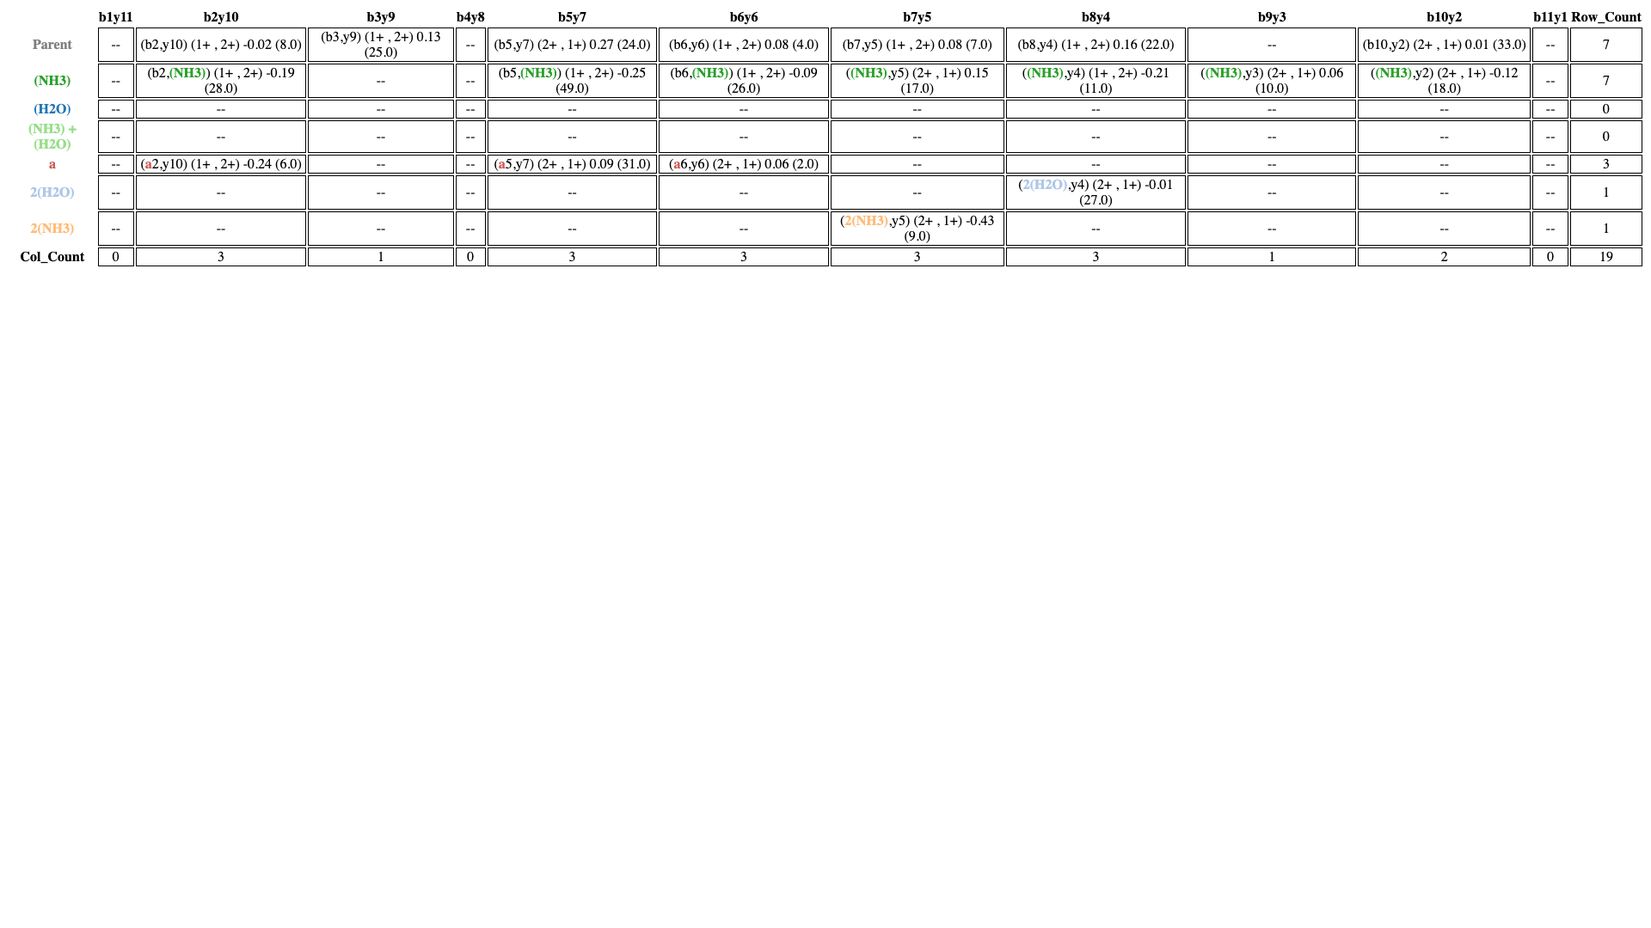
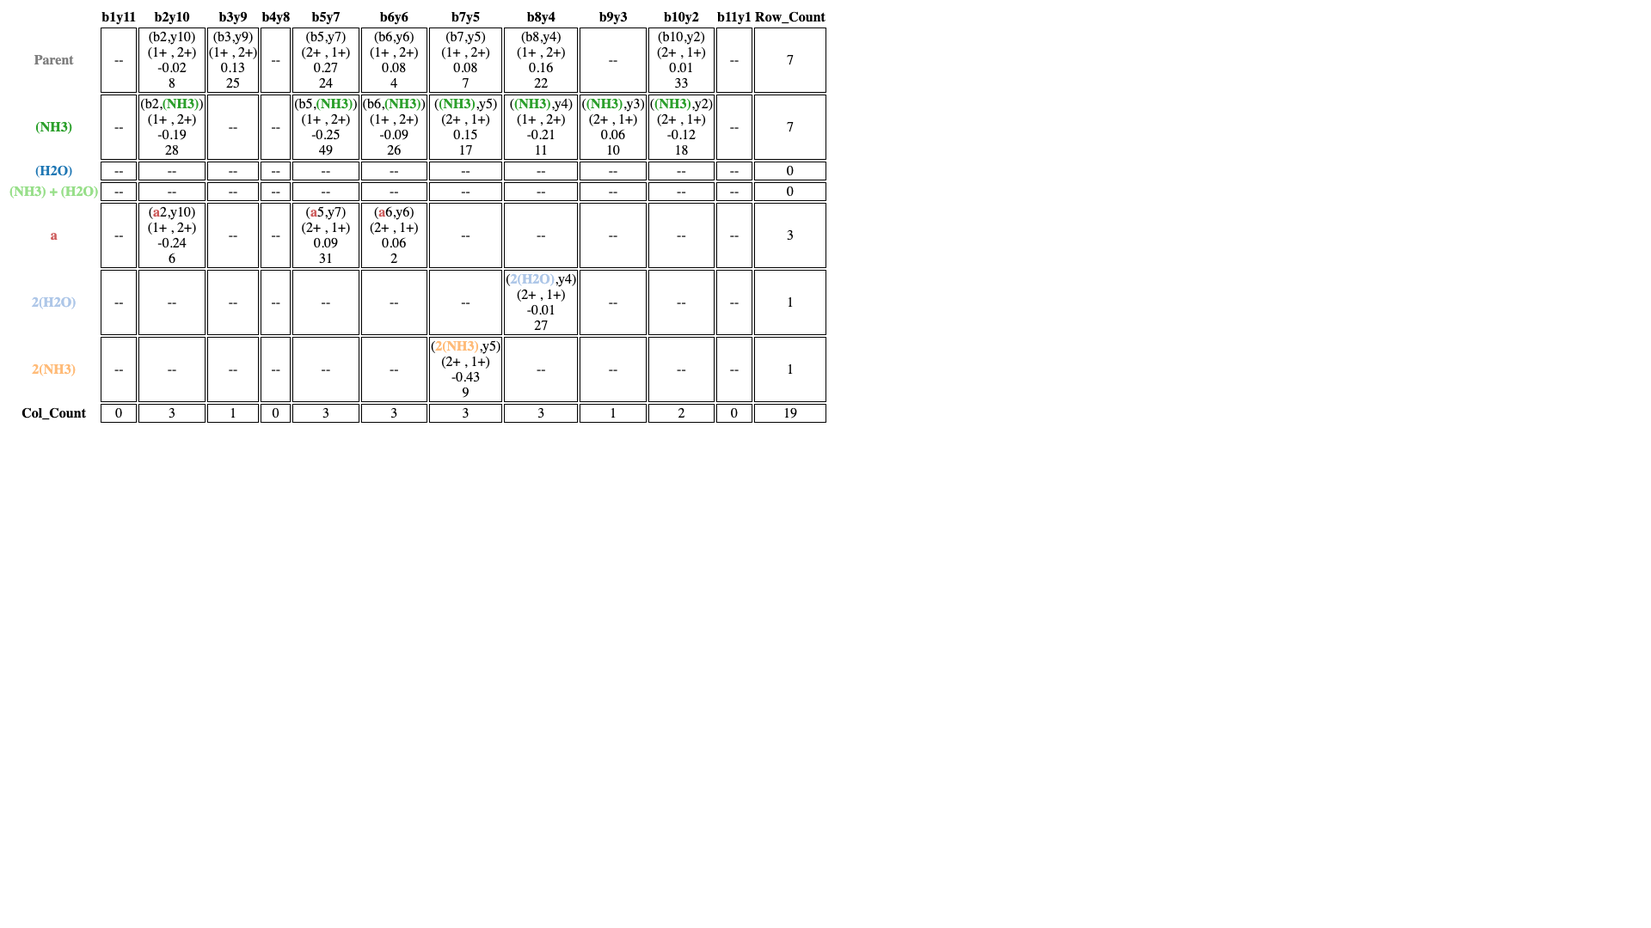
/

diff --git a/vis/temp/ME9_3+.html b/vis/temp/ME9_3+.html
@@ -1,217 +1,179 @@
 <style type="text/css">
-#T_36f19_row0_col0, #T_36f19_row0_col1, #T_36f19_row0_col2, #T_36f19_row0_col3, #T_36f19_row0_col4, #T_36f19_row0_col5, #T_36f19_row0_col6, #T_36f19_row0_col7, #T_36f19_row0_col8, #T_36f19_row0_col9, #T_36f19_row0_col10, #T_36f19_row0_col11, #T_36f19_row1_col0, #T_36f19_row1_col1, #T_36f19_row1_col2, #T_36f19_row1_col3, #T_36f19_row1_col4, #T_36f19_row1_col5, #T_36f19_row1_col6, #T_36f19_row1_col7, #T_36f19_row1_col8, #T_36f19_row1_col9, #T_36f19_row1_col10, #T_36f19_row1_col11, #T_36f19_row2_col0, #T_36f19_row2_col1, #T_36f19_row2_col2, #T_36f19_row2_col3, #T_36f19_row2_col4, #T_36f19_row2_col5, #T_36f19_row2_col6, #T_36f19_row2_col7, #T_36f19_row2_col8, #T_36f19_row2_col9, #T_36f19_row2_col10, #T_36f19_row2_col11, #T_36f19_row3_col0, #T_36f19_row3_col1, #T_36f19_row3_col2, #T_36f19_row3_col3, #T_36f19_row3_col4, #T_36f19_row3_col5, #T_36f19_row3_col6, #T_36f19_row3_col7, #T_36f19_row3_col8, #T_36f19_row3_col9, #T_36f19_row3_col10, #T_36f19_row3_col11, #T_36f19_row4_col0, #T_36f19_row4_col1, #T_36f19_row4_col2, #T_36f19_row4_col3, #T_36f19_row4_col4, #T_36f19_row4_col5, #T_36f19_row4_col6, #T_36f19_row4_col7, #T_36f19_row4_col8, #T_36f19_row4_col9, #T_36f19_row4_col10, #T_36f19_row4_col11, #T_36f19_row5_col0, #T_36f19_row5_col1, #T_36f19_row5_col2, #T_36f19_row5_col3, #T_36f19_row5_col4, #T_36f19_row5_col5, #T_36f19_row5_col6, #T_36f19_row5_col7, #T_36f19_row5_col8, #T_36f19_row5_col9, #T_36f19_row5_col10, #T_36f19_row5_col11, #T_36f19_row6_col0, #T_36f19_row6_col1, #T_36f19_row6_col2, #T_36f19_row6_col3, #T_36f19_row6_col4, #T_36f19_row6_col5, #T_36f19_row6_col6, #T_36f19_row6_col7, #T_36f19_row6_col8, #T_36f19_row6_col9, #T_36f19_row6_col10, #T_36f19_row6_col11, #T_36f19_row7_col0, #T_36f19_row7_col1, #T_36f19_row7_col2, #T_36f19_row7_col3, #T_36f19_row7_col4, #T_36f19_row7_col5, #T_36f19_row7_col6, #T_36f19_row7_col7, #T_36f19_row7_col8, #T_36f19_row7_col9, #T_36f19_row7_col10, #T_36f19_row7_col11 {
+#T_e6fdb_row0_col0, #T_e6fdb_row0_col1, #T_e6fdb_row0_col2, #T_e6fdb_row0_col3, #T_e6fdb_row0_col4, #T_e6fdb_row0_col5, #T_e6fdb_row0_col6, #T_e6fdb_row0_col7, #T_e6fdb_row0_col8, #T_e6fdb_row0_col9, #T_e6fdb_row0_col10, #T_e6fdb_row0_col11, #T_e6fdb_row1_col0, #T_e6fdb_row1_col1, #T_e6fdb_row1_col2, #T_e6fdb_row1_col3, #T_e6fdb_row1_col4, #T_e6fdb_row1_col5, #T_e6fdb_row1_col6, #T_e6fdb_row1_col7, #T_e6fdb_row1_col8, #T_e6fdb_row1_col9, #T_e6fdb_row1_col10, #T_e6fdb_row1_col11, #T_e6fdb_row2_col0, #T_e6fdb_row2_col1, #T_e6fdb_row2_col2, #T_e6fdb_row2_col3, #T_e6fdb_row2_col4, #T_e6fdb_row2_col5, #T_e6fdb_row2_col6, #T_e6fdb_row2_col7, #T_e6fdb_row2_col8, #T_e6fdb_row2_col9, #T_e6fdb_row2_col10, #T_e6fdb_row2_col11, #T_e6fdb_row3_col0, #T_e6fdb_row3_col1, #T_e6fdb_row3_col2, #T_e6fdb_row3_col3, #T_e6fdb_row3_col4, #T_e6fdb_row3_col5, #T_e6fdb_row3_col6, #T_e6fdb_row3_col7, #T_e6fdb_row3_col8, #T_e6fdb_row3_col9, #T_e6fdb_row3_col10, #T_e6fdb_row3_col11, #T_e6fdb_row4_col0, #T_e6fdb_row4_col1, #T_e6fdb_row4_col2, #T_e6fdb_row4_col3, #T_e6fdb_row4_col4, #T_e6fdb_row4_col5, #T_e6fdb_row4_col6, #T_e6fdb_row4_col7, #T_e6fdb_row4_col8, #T_e6fdb_row4_col9, #T_e6fdb_row4_col10, #T_e6fdb_row4_col11, #T_e6fdb_row5_col0, #T_e6fdb_row5_col1, #T_e6fdb_row5_col2, #T_e6fdb_row5_col3, #T_e6fdb_row5_col4, #T_e6fdb_row5_col5, #T_e6fdb_row5_col6, #T_e6fdb_row5_col7, #T_e6fdb_row5_col8, #T_e6fdb_row5_col9, #T_e6fdb_row5_col10, #T_e6fdb_row5_col11, #T_e6fdb_row6_col0, #T_e6fdb_row6_col1, #T_e6fdb_row6_col2, #T_e6fdb_row6_col3, #T_e6fdb_row6_col4, #T_e6fdb_row6_col5, #T_e6fdb_row6_col6, #T_e6fdb_row6_col7, #T_e6fdb_row6_col8, #T_e6fdb_row6_col9, #T_e6fdb_row6_col10, #T_e6fdb_row6_col11, #T_e6fdb_row7_col0, #T_e6fdb_row7_col1, #T_e6fdb_row7_col2, #T_e6fdb_row7_col3, #T_e6fdb_row7_col4, #T_e6fdb_row7_col5, #T_e6fdb_row7_col6, #T_e6fdb_row7_col7, #T_e6fdb_row7_col8, #T_e6fdb_row7_col9, #T_e6fdb_row7_col10, #T_e6fdb_row7_col11 {
   border: 1px solid black;
   text-align: center;
 }
-#T_36f19_level0_row0 {
+#T_e6fdb_level0_row0 {
   color: #7f7f7f;
   font-weight: bold;
 }
-#T_36f19_level0_row1 {
+#T_e6fdb_level0_row1 {
   color: #2ca02c;
   font-weight: bold;
 }
-#T_36f19_level0_row2 {
+#T_e6fdb_level0_row2 {
   color: #1f77b4;
   font-weight: bold;
 }
-#T_36f19_level0_row3 {
+#T_e6fdb_level0_row3 {
   color: #98df8a;
   font-weight: bold;
 }
-#T_36f19_level0_row4 {
+#T_e6fdb_level0_row4 {
   color: #CD5C5C;
   font-weight: bold;
 }
-#T_36f19_level0_row5 {
+#T_e6fdb_level0_row5 {
   color: #aec7e8;
   font-weight: bold;
 }
-#T_36f19_level0_row6 {
+#T_e6fdb_level0_row6 {
   color: #ffbb78;
   font-weight: bold;
 }
-#T_36f19_level0_row7 {
+#T_e6fdb_level0_row7 {
   color: black;
   font-weight: bold;
 }
 </style>
-<table id="T_36f19">
+<table id="T_e6fdb">
   <thead>
     <tr>
       <th class="blank level0" >&nbsp;</th>
-      <th id="T_36f19_level0_col0" class="col_heading level0 col0" >b1y11</th>
-      <th id="T_36f19_level0_col1" class="col_heading level0 col1" >b2y10</th>
-      <th id="T_36f19_level0_col2" class="col_heading level0 col2" >b3y9</th>
-      <th id="T_36f19_level0_col3" class="col_heading level0 col3" >b4y8</th>
-      <th id="T_36f19_level0_col4" class="col_heading level0 col4" >b5y7</th>
-      <th id="T_36f19_level0_col5" class="col_heading level0 col5" >b6y6</th>
-      <th id="T_36f19_level0_col6" class="col_heading level0 col6" >b7y5</th>
-      <th id="T_36f19_level0_col7" class="col_heading level0 col7" >b8y4</th>
-      <th id="T_36f19_level0_col8" class="col_heading level0 col8" >b9y3</th>
-      <th id="T_36f19_level0_col9" class="col_heading level0 col9" >b10y2</th>
-      <th id="T_36f19_level0_col10" class="col_heading level0 col10" >b11y1</th>
-      <th id="T_36f19_level0_col11" class="col_heading level0 col11" >Row_Count</th>
+      <th id="T_e6fdb_level0_col0" class="col_heading level0 col0" >b1y11</th>
+      <th id="T_e6fdb_level0_col1" class="col_heading level0 col1" >b2y10</th>
+      <th id="T_e6fdb_level0_col2" class="col_heading level0 col2" >b3y9</th>
+      <th id="T_e6fdb_level0_col3" class="col_heading level0 col3" >b4y8</th>
+      <th id="T_e6fdb_level0_col4" class="col_heading level0 col4" >b5y7</th>
+      <th id="T_e6fdb_level0_col5" class="col_heading level0 col5" >b6y6</th>
+      <th id="T_e6fdb_level0_col6" class="col_heading level0 col6" >b7y5</th>
+      <th id="T_e6fdb_level0_col7" class="col_heading level0 col7" >b8y4</th>
+      <th id="T_e6fdb_level0_col8" class="col_heading level0 col8" >b9y3</th>
+      <th id="T_e6fdb_level0_col9" class="col_heading level0 col9" >b10y2</th>
+      <th id="T_e6fdb_level0_col10" class="col_heading level0 col10" >b11y1</th>
+      <th id="T_e6fdb_level0_col11" class="col_heading level0 col11" >Row_Count</th>
     </tr>
   </thead>
   <tbody>
     <tr>
-      <th id="T_36f19_level0_row0" class="row_heading level0 row0" >Parent</th>
-      <td id="T_36f19_row0_col0" class="data row0 col0" >--</td>
-      <td id="T_36f19_row0_col1" class="data row0 col1" >(b2,y10) 
- (1+ , 2+) 
- -0.02 (8.0)</td>
-      <td id="T_36f19_row0_col2" class="data row0 col2" >(b3,y9) 
- (1+ , 2+) 
- 0.13 (25.0)</td>
-      <td id="T_36f19_row0_col3" class="data row0 col3" >--</td>
-      <td id="T_36f19_row0_col4" class="data row0 col4" >(b5,y7) 
- (2+ , 1+) 
- 0.27 (24.0)</td>
-      <td id="T_36f19_row0_col5" class="data row0 col5" >(b6,y6) 
- (1+ , 2+) 
- 0.08 (4.0)</td>
-      <td id="T_36f19_row0_col6" class="data row0 col6" >(b7,y5) 
- (1+ , 2+) 
- 0.08 (7.0)</td>
-      <td id="T_36f19_row0_col7" class="data row0 col7" >(b8,y4) 
- (1+ , 2+) 
- 0.16 (22.0)</td>
-      <td id="T_36f19_row0_col8" class="data row0 col8" >--</td>
-      <td id="T_36f19_row0_col9" class="data row0 col9" >(b10,y2) 
- (2+ , 1+) 
- 0.01 (33.0)</td>
-      <td id="T_36f19_row0_col10" class="data row0 col10" >--</td>
-      <td id="T_36f19_row0_col11" class="data row0 col11" >7</td>
+      <th id="T_e6fdb_level0_row0" class="row_heading level0 row0" >Parent</th>
+      <td id="T_e6fdb_row0_col0" class="data row0 col0" >--</td>
+      <td id="T_e6fdb_row0_col1" class="data row0 col1" >(b2,y10) <br> (1+ , 2+) <br> -0.02<br>8</td>
+      <td id="T_e6fdb_row0_col2" class="data row0 col2" >(b3,y9) <br> (1+ , 2+) <br> 0.13<br>25</td>
+      <td id="T_e6fdb_row0_col3" class="data row0 col3" >--</td>
+      <td id="T_e6fdb_row0_col4" class="data row0 col4" >(b5,y7) <br> (2+ , 1+) <br> 0.27<br>24</td>
+      <td id="T_e6fdb_row0_col5" class="data row0 col5" >(b6,y6) <br> (1+ , 2+) <br> 0.08<br>4</td>
+      <td id="T_e6fdb_row0_col6" class="data row0 col6" >(b7,y5) <br> (1+ , 2+) <br> 0.08<br>7</td>
+      <td id="T_e6fdb_row0_col7" class="data row0 col7" >(b8,y4) <br> (1+ , 2+) <br> 0.16<br>22</td>
+      <td id="T_e6fdb_row0_col8" class="data row0 col8" >--</td>
+      <td id="T_e6fdb_row0_col9" class="data row0 col9" >(b10,y2) <br> (2+ , 1+) <br> 0.01<br>33</td>
+      <td id="T_e6fdb_row0_col10" class="data row0 col10" >--</td>
+      <td id="T_e6fdb_row0_col11" class="data row0 col11" >7</td>
     </tr>
     <tr>
-      <th id="T_36f19_level0_row1" class="row_heading level0 row1" >(NH3)</th>
-      <td id="T_36f19_row1_col0" class="data row1 col0" >--</td>
-      <td id="T_36f19_row1_col1" class="data row1 col1" >(b2,<span style='color: #2ca02c; font-weight: bold;'>(NH3)</span>) 
- (1+ , 2+) 
- -0.19 (28.0)</td>
-      <td id="T_36f19_row1_col2" class="data row1 col2" >--</td>
-      <td id="T_36f19_row1_col3" class="data row1 col3" >--</td>
-      <td id="T_36f19_row1_col4" class="data row1 col4" >(b5,<span style='color: #2ca02c; font-weight: bold;'>(NH3)</span>) 
- (1+ , 2+) 
- -0.25 (49.0)</td>
-      <td id="T_36f19_row1_col5" class="data row1 col5" >(b6,<span style='color: #2ca02c; font-weight: bold;'>(NH3)</span>) 
- (1+ , 2+) 
- -0.09 (26.0)</td>
-      <td id="T_36f19_row1_col6" class="data row1 col6" >(<span style='color: #2ca02c; font-weight: bold;'>(NH3)</span>,y5) 
- (2+ , 1+) 
- 0.15 (17.0)</td>
-      <td id="T_36f19_row1_col7" class="data row1 col7" >(<span style='color: #2ca02c; font-weight: bold;'>(NH3)</span>,y4) 
- (1+ , 2+) 
- -0.21 (11.0)</td>
-      <td id="T_36f19_row1_col8" class="data row1 col8" >(<span style='color: #2ca02c; font-weight: bold;'>(NH3)</span>,y3) 
- (2+ , 1+) 
- 0.06 (10.0)</td>
-      <td id="T_36f19_row1_col9" class="data row1 col9" >(<span style='color: #2ca02c; font-weight: bold;'>(NH3)</span>,y2) 
- (2+ , 1+) 
- -0.12 (18.0)</td>
-      <td id="T_36f19_row1_col10" class="data row1 col10" >--</td>
-      <td id="T_36f19_row1_col11" class="data row1 col11" >7</td>
+      <th id="T_e6fdb_level0_row1" class="row_heading level0 row1" >(NH3)</th>
+      <td id="T_e6fdb_row1_col0" class="data row1 col0" >--</td>
+      <td id="T_e6fdb_row1_col1" class="data row1 col1" >(b2,<span style='color: #2ca02c; font-weight: bold;'>(NH3)</span>) <br> (1+ , 2+) <br> -0.19<br>28</td>
+      <td id="T_e6fdb_row1_col2" class="data row1 col2" >--</td>
+      <td id="T_e6fdb_row1_col3" class="data row1 col3" >--</td>
+      <td id="T_e6fdb_row1_col4" class="data row1 col4" >(b5,<span style='color: #2ca02c; font-weight: bold;'>(NH3)</span>) <br> (1+ , 2+) <br> -0.25<br>49</td>
+      <td id="T_e6fdb_row1_col5" class="data row1 col5" >(b6,<span style='color: #2ca02c; font-weight: bold;'>(NH3)</span>) <br> (1+ , 2+) <br> -0.09<br>26</td>
+      <td id="T_e6fdb_row1_col6" class="data row1 col6" >(<span style='color: #2ca02c; font-weight: bold;'>(NH3)</span>,y5) <br> (2+ , 1+) <br> 0.15<br>17</td>
+      <td id="T_e6fdb_row1_col7" class="data row1 col7" >(<span style='color: #2ca02c; font-weight: bold;'>(NH3)</span>,y4) <br> (1+ , 2+) <br> -0.21<br>11</td>
+      <td id="T_e6fdb_row1_col8" class="data row1 col8" >(<span style='color: #2ca02c; font-weight: bold;'>(NH3)</span>,y3) <br> (2+ , 1+) <br> 0.06<br>10</td>
+      <td id="T_e6fdb_row1_col9" class="data row1 col9" >(<span style='color: #2ca02c; font-weight: bold;'>(NH3)</span>,y2) <br> (2+ , 1+) <br> -0.12<br>18</td>
+      <td id="T_e6fdb_row1_col10" class="data row1 col10" >--</td>
+      <td id="T_e6fdb_row1_col11" class="data row1 col11" >7</td>
     </tr>
     <tr>
-      <th id="T_36f19_level0_row2" class="row_heading level0 row2" >(H2O)</th>
-      <td id="T_36f19_row2_col0" class="data row2 col0" >--</td>
-      <td id="T_36f19_row2_col1" class="data row2 col1" >--</td>
-      <td id="T_36f19_row2_col2" class="data row2 col2" >--</td>
-      <td id="T_36f19_row2_col3" class="data row2 col3" >--</td>
-      <td id="T_36f19_row2_col4" class="data row2 col4" >--</td>
-      <td id="T_36f19_row2_col5" class="data row2 col5" >--</td>
-      <td id="T_36f19_row2_col6" class="data row2 col6" >--</td>
-      <td id="T_36f19_row2_col7" class="data row2 col7" >--</td>
-      <td id="T_36f19_row2_col8" class="data row2 col8" >--</td>
-      <td id="T_36f19_row2_col9" class="data row2 col9" >--</td>
-      <td id="T_36f19_row2_col10" class="data row2 col10" >--</td>
-      <td id="T_36f19_row2_col11" class="data row2 col11" >0</td>
+      <th id="T_e6fdb_level0_row2" class="row_heading level0 row2" >(H2O)</th>
+      <td id="T_e6fdb_row2_col0" class="data row2 col0" >--</td>
+      <td id="T_e6fdb_row2_col1" class="data row2 col1" >--</td>
+      <td id="T_e6fdb_row2_col2" class="data row2 col2" >--</td>
+      <td id="T_e6fdb_row2_col3" class="data row2 col3" >--</td>
+      <td id="T_e6fdb_row2_col4" class="data row2 col4" >--</td>
+      <td id="T_e6fdb_row2_col5" class="data row2 col5" >--</td>
+      <td id="T_e6fdb_row2_col6" class="data row2 col6" >--</td>
+      <td id="T_e6fdb_row2_col7" class="data row2 col7" >--</td>
+      <td id="T_e6fdb_row2_col8" class="data row2 col8" >--</td>
+      <td id="T_e6fdb_row2_col9" class="data row2 col9" >--</td>
+      <td id="T_e6fdb_row2_col10" class="data row2 col10" >--</td>
+      <td id="T_e6fdb_row2_col11" class="data row2 col11" >0</td>
     </tr>
     <tr>
-      <th id="T_36f19_level0_row3" class="row_heading level0 row3" >(NH3) + (H2O)</th>
-      <td id="T_36f19_row3_col0" class="data row3 col0" >--</td>
-      <td id="T_36f19_row3_col1" class="data row3 col1" >--</td>
-      <td id="T_36f19_row3_col2" class="data row3 col2" >--</td>
-      <td id="T_36f19_row3_col3" class="data row3 col3" >--</td>
-      <td id="T_36f19_row3_col4" class="data row3 col4" >--</td>
-      <td id="T_36f19_row3_col5" class="data row3 col5" >--</td>
-      <td id="T_36f19_row3_col6" class="data row3 col6" >--</td>
-      <td id="T_36f19_row3_col7" class="data row3 col7" >--</td>
-      <td id="T_36f19_row3_col8" class="data row3 col8" >--</td>
-      <td id="T_36f19_row3_col9" class="data row3 col9" >--</td>
-      <td id="T_36f19_row3_col10" class="data row3 col10" >--</td>
-      <td id="T_36f19_row3_col11" class="data row3 col11" >0</td>
+      <th id="T_e6fdb_level0_row3" class="row_heading level0 row3" >(NH3) + (H2O)</th>
+      <td id="T_e6fdb_row3_col0" class="data row3 col0" >--</td>
+      <td id="T_e6fdb_row3_col1" class="data row3 col1" >--</td>
+      <td id="T_e6fdb_row3_col2" class="data row3 col2" >--</td>
+      <td id="T_e6fdb_row3_col3" class="data row3 col3" >--</td>
+      <td id="T_e6fdb_row3_col4" class="data row3 col4" >--</td>
+      <td id="T_e6fdb_row3_col5" class="data row3 col5" >--</td>
+      <td id="T_e6fdb_row3_col6" class="data row3 col6" >--</td>
+      <td id="T_e6fdb_row3_col7" class="data row3 col7" >--</td>
+      <td id="T_e6fdb_row3_col8" class="data row3 col8" >--</td>
+      <td id="T_e6fdb_row3_col9" class="data row3 col9" >--</td>
+      <td id="T_e6fdb_row3_col10" class="data row3 col10" >--</td>
+      <td id="T_e6fdb_row3_col11" class="data row3 col11" >0</td>
     </tr>
     <tr>
-      <th id="T_36f19_level0_row4" class="row_heading level0 row4" >a</th>
-      <td id="T_36f19_row4_col0" class="data row4 col0" >--</td>
-      <td id="T_36f19_row4_col1" class="data row4 col1" >(<span style='color: #CD5C5C; font-weight: bold;'>a</span>2,y10) 
- (1+ , 2+) 
- -0.24 (6.0)</td>
-      <td id="T_36f19_row4_col2" class="data row4 col2" >--</td>
-      <td id="T_36f19_row4_col3" class="data row4 col3" >--</td>
-      <td id="T_36f19_row4_col4" class="data row4 col4" >(<span style='color: #CD5C5C; font-weight: bold;'>a</span>5,y7) 
- (2+ , 1+) 
- 0.09 (31.0)</td>
-      <td id="T_36f19_row4_col5" class="data row4 col5" >(<span style='color: #CD5C5C; font-weight: bold;'>a</span>6,y6) 
- (2+ , 1+) 
- 0.06 (2.0)</td>
-      <td id="T_36f19_row4_col6" class="data row4 col6" >--</td>
-      <td id="T_36f19_row4_col7" class="data row4 col7" >--</td>
-      <td id="T_36f19_row4_col8" class="data row4 col8" >--</td>
-      <td id="T_36f19_row4_col9" class="data row4 col9" >--</td>
-      <td id="T_36f19_row4_col10" class="data row4 col10" >--</td>
-      <td id="T_36f19_row4_col11" class="data row4 col11" >3</td>
+      <th id="T_e6fdb_level0_row4" class="row_heading level0 row4" >a</th>
+      <td id="T_e6fdb_row4_col0" class="data row4 col0" >--</td>
+      <td id="T_e6fdb_row4_col1" class="data row4 col1" >(<span style='color: #CD5C5C; font-weight: bold;'>a</span>2,y10) <br> (1+ , 2+) <br> -0.24<br>6</td>
+      <td id="T_e6fdb_row4_col2" class="data row4 col2" >--</td>
+      <td id="T_e6fdb_row4_col3" class="data row4 col3" >--</td>
+      <td id="T_e6fdb_row4_col4" class="data row4 col4" >(<span style='color: #CD5C5C; font-weight: bold;'>a</span>5,y7) <br> (2+ , 1+) <br> 0.09<br>31</td>
+      <td id="T_e6fdb_row4_col5" class="data row4 col5" >(<span style='color: #CD5C5C; font-weight: bold;'>a</span>6,y6) <br> (2+ , 1+) <br> 0.06<br>2</td>
+      <td id="T_e6fdb_row4_col6" class="data row4 col6" >--</td>
+      <td id="T_e6fdb_row4_col7" class="data row4 col7" >--</td>
+      <td id="T_e6fdb_row4_col8" class="data row4 col8" >--</td>
+      <td id="T_e6fdb_row4_col9" class="data row4 col9" >--</td>
+      <td id="T_e6fdb_row4_col10" class="data row4 col10" >--</td>
+      <td id="T_e6fdb_row4_col11" class="data row4 col11" >3</td>
     </tr>
     <tr>
-      <th id="T_36f19_level0_row5" class="row_heading level0 row5" >2(H2O)</th>
-      <td id="T_36f19_row5_col0" class="data row5 col0" >--</td>
-      <td id="T_36f19_row5_col1" class="data row5 col1" >--</td>
-      <td id="T_36f19_row5_col2" class="data row5 col2" >--</td>
-      <td id="T_36f19_row5_col3" class="data row5 col3" >--</td>
-      <td id="T_36f19_row5_col4" class="data row5 col4" >--</td>
-      <td id="T_36f19_row5_col5" class="data row5 col5" >--</td>
-      <td id="T_36f19_row5_col6" class="data row5 col6" >--</td>
-      <td id="T_36f19_row5_col7" class="data row5 col7" >(<span style='color: #aec7e8; font-weight: bold;'>2(H2O)</span>,y4) 
- (2+ , 1+) 
- -0.01 (27.0)</td>
-      <td id="T_36f19_row5_col8" class="data row5 col8" >--</td>
-      <td id="T_36f19_row5_col9" class="data row5 col9" >--</td>
-      <td id="T_36f19_row5_col10" class="data row5 col10" >--</td>
-      <td id="T_36f19_row5_col11" class="data row5 col11" >1</td>
+      <th id="T_e6fdb_level0_row5" class="row_heading level0 row5" >2(H2O)</th>
+      <td id="T_e6fdb_row5_col0" class="data row5 col0" >--</td>
+      <td id="T_e6fdb_row5_col1" class="data row5 col1" >--</td>
+      <td id="T_e6fdb_row5_col2" class="data row5 col2" >--</td>
+      <td id="T_e6fdb_row5_col3" class="data row5 col3" >--</td>
+      <td id="T_e6fdb_row5_col4" class="data row5 col4" >--</td>
+      <td id="T_e6fdb_row5_col5" class="data row5 col5" >--</td>
+      <td id="T_e6fdb_row5_col6" class="data row5 col6" >--</td>
+      <td id="T_e6fdb_row5_col7" class="data row5 col7" >(<span style='color: #aec7e8; font-weight: bold;'>2(H2O)</span>,y4) <br> (2+ , 1+) <br> -0.01<br>27</td>
+      <td id="T_e6fdb_row5_col8" class="data row5 col8" >--</td>
+      <td id="T_e6fdb_row5_col9" class="data row5 col9" >--</td>
+      <td id="T_e6fdb_row5_col10" class="data row5 col10" >--</td>
+      <td id="T_e6fdb_row5_col11" class="data row5 col11" >1</td>
     </tr>
     <tr>
-      <th id="T_36f19_level0_row6" class="row_heading level0 row6" >2(NH3)</th>
-      <td id="T_36f19_row6_col0" class="data row6 col0" >--</td>
-      <td id="T_36f19_row6_col1" class="data row6 col1" >--</td>
-      <td id="T_36f19_row6_col2" class="data row6 col2" >--</td>
-      <td id="T_36f19_row6_col3" class="data row6 col3" >--</td>
-      <td id="T_36f19_row6_col4" class="data row6 col4" >--</td>
-      <td id="T_36f19_row6_col5" class="data row6 col5" >--</td>
-      <td id="T_36f19_row6_col6" class="data row6 col6" >(<span style='color: #ffbb78; font-weight: bold;'>2(NH3)</span>,y5) 
- (2+ , 1+) 
- -0.43 (9.0)</td>
-      <td id="T_36f19_row6_col7" class="data row6 col7" >--</td>
-      <td id="T_36f19_row6_col8" class="data row6 col8" >--</td>
-      <td id="T_36f19_row6_col9" class="data row6 col9" >--</td>
-      <td id="T_36f19_row6_col10" class="data row6 col10" >--</td>
-      <td id="T_36f19_row6_col11" class="data row6 col11" >1</td>
+      <th id="T_e6fdb_level0_row6" class="row_heading level0 row6" >2(NH3)</th>
+      <td id="T_e6fdb_row6_col0" class="data row6 col0" >--</td>
+      <td id="T_e6fdb_row6_col1" class="data row6 col1" >--</td>
+      <td id="T_e6fdb_row6_col2" class="data row6 col2" >--</td>
+      <td id="T_e6fdb_row6_col3" class="data row6 col3" >--</td>
+      <td id="T_e6fdb_row6_col4" class="data row6 col4" >--</td>
+      <td id="T_e6fdb_row6_col5" class="data row6 col5" >--</td>
+      <td id="T_e6fdb_row6_col6" class="data row6 col6" >(<span style='color: #ffbb78; font-weight: bold;'>2(NH3)</span>,y5) <br> (2+ , 1+) <br> -0.43<br>9</td>
+      <td id="T_e6fdb_row6_col7" class="data row6 col7" >--</td>
+      <td id="T_e6fdb_row6_col8" class="data row6 col8" >--</td>
+      <td id="T_e6fdb_row6_col9" class="data row6 col9" >--</td>
+      <td id="T_e6fdb_row6_col10" class="data row6 col10" >--</td>
+      <td id="T_e6fdb_row6_col11" class="data row6 col11" >1</td>
     </tr>
     <tr>
-      <th id="T_36f19_level0_row7" class="row_heading level0 row7" >Col_Count</th>
-      <td id="T_36f19_row7_col0" class="data row7 col0" >0</td>
-      <td id="T_36f19_row7_col1" class="data row7 col1" >3</td>
-      <td id="T_36f19_row7_col2" class="data row7 col2" >1</td>
-      <td id="T_36f19_row7_col3" class="data row7 col3" >0</td>
-      <td id="T_36f19_row7_col4" class="data row7 col4" >3</td>
-      <td id="T_36f19_row7_col5" class="data row7 col5" >3</td>
-      <td id="T_36f19_row7_col6" class="data row7 col6" >3</td>
-      <td id="T_36f19_row7_col7" class="data row7 col7" >3</td>
-      <td id="T_36f19_row7_col8" class="data row7 col8" >1</td>
-      <td id="T_36f19_row7_col9" class="data row7 col9" >2</td>
-      <td id="T_36f19_row7_col10" class="data row7 col10" >0</td>
-      <td id="T_36f19_row7_col11" class="data row7 col11" >19</td>
+      <th id="T_e6fdb_level0_row7" class="row_heading level0 row7" >Col_Count</th>
+      <td id="T_e6fdb_row7_col0" class="data row7 col0" >0</td>
+      <td id="T_e6fdb_row7_col1" class="data row7 col1" >3</td>
+      <td id="T_e6fdb_row7_col2" class="data row7 col2" >1</td>
+      <td id="T_e6fdb_row7_col3" class="data row7 col3" >0</td>
+      <td id="T_e6fdb_row7_col4" class="data row7 col4" >3</td>
+      <td id="T_e6fdb_row7_col5" class="data row7 col5" >3</td>
+      <td id="T_e6fdb_row7_col6" class="data row7 col6" >3</td>
+      <td id="T_e6fdb_row7_col7" class="data row7 col7" >3</td>
+      <td id="T_e6fdb_row7_col8" class="data row7 col8" >1</td>
+      <td id="T_e6fdb_row7_col9" class="data row7 col9" >2</td>
+      <td id="T_e6fdb_row7_col10" class="data row7 col10" >0</td>
+      <td id="T_e6fdb_row7_col11" class="data row7 col11" >19</td>
     </tr>
   </tbody>
 </table>

diff --git a/vis/conserve_line.py b/vis/conserve_line.py
@@ -168,7 +168,7 @@ for index, each_row in df.iterrows():
     if (each_row['conserve_line'] in reuslt_df.index) and (the_column in reuslt_df.columns):
         #print(each_row['conserve_line'])
         reuslt_df.at[each_row['conserve_line'], the_column] = f"({each_row['loss_first_m']},{each_row['loss_second_m']})" + ' \n ' +\
-        f"({each_row['charge_first']} , {each_row['charge_second']})" +' \n ' + str(round(each_row['mass_difference1'] + each_row['mass_difference2'], 2)) + ' ' + f"({str(each_row['ranking'])})"
+        f"({each_row['charge_first']} , {each_row['charge_second']})" +' \n ' + str(round(each_row['mass_difference1'] + each_row['mass_difference2'], 2)) + '\n' + f"{str(int(each_row['ranking']))}"
         
         #high_light.append(int(each_row['ranking']))
         highlight_data[int(each_row['ranking'])] = each_row['conserve_line']
@@ -239,6 +239,7 @@ def combine_rows_inplace(df, idx1, idx2, keep='first'):
 
 reuslt_df = combine_rows_inplace(reuslt_df, '(NH3) + (H2O)', '(H2O) + (NH3)')
 print(reuslt_df)
+reuslt_df = reuslt_df.map(lambda x: x.replace('\n', '<br>') if isinstance(x, str) else x)
 
 df_display = reuslt_df.copy().astype(str)
 known_components = reuslt_df.index.tolist()
